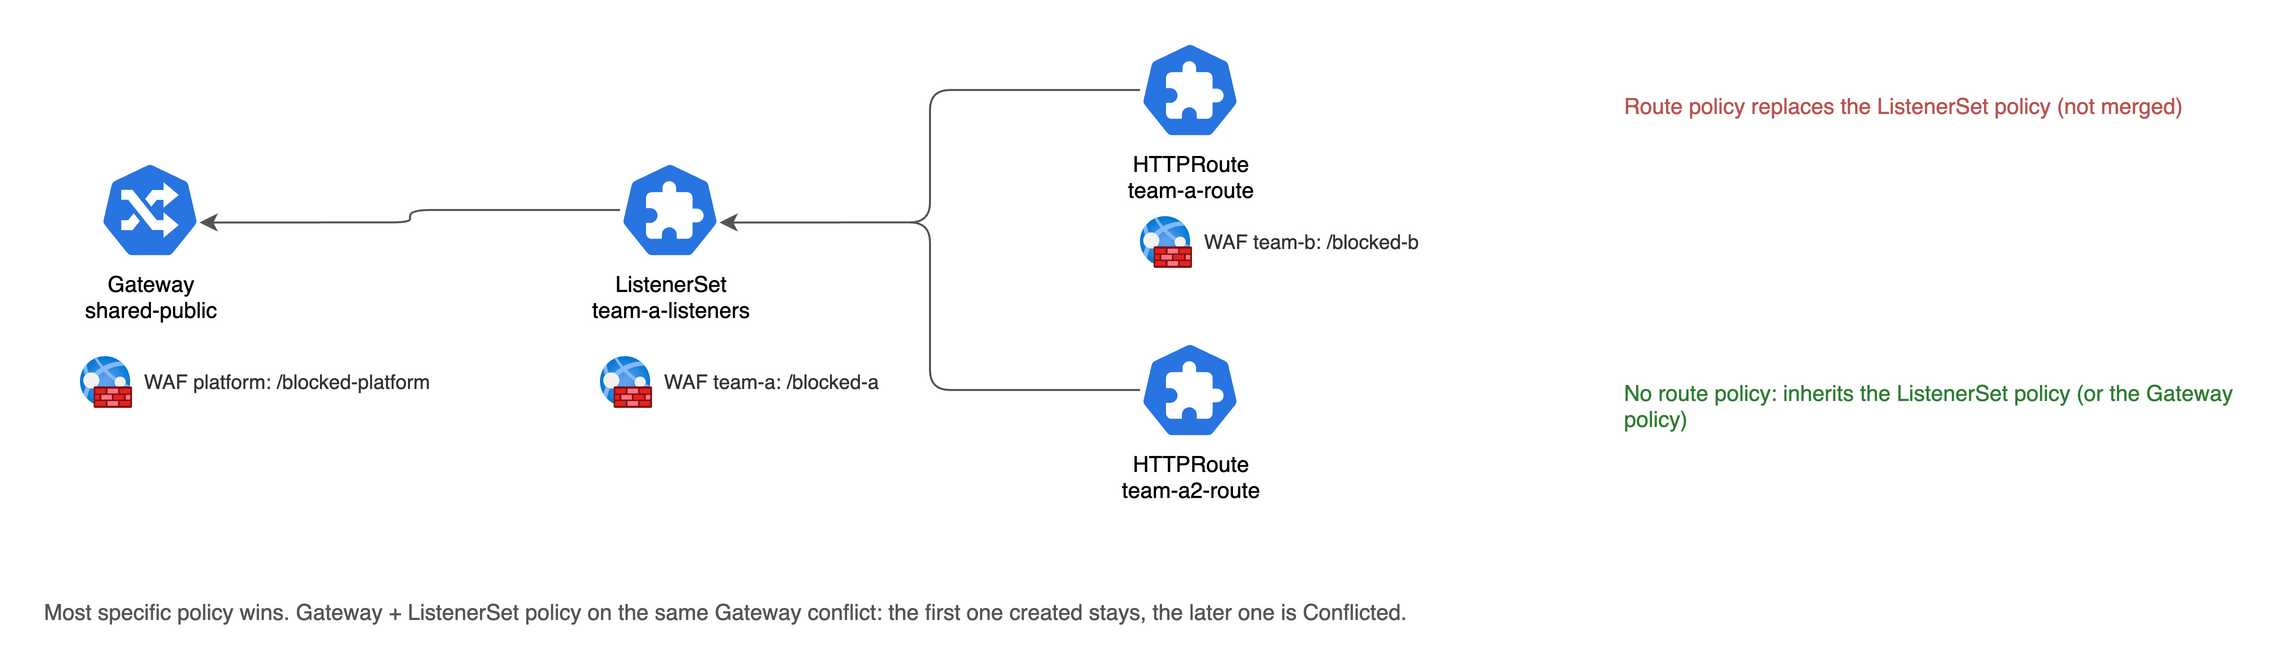
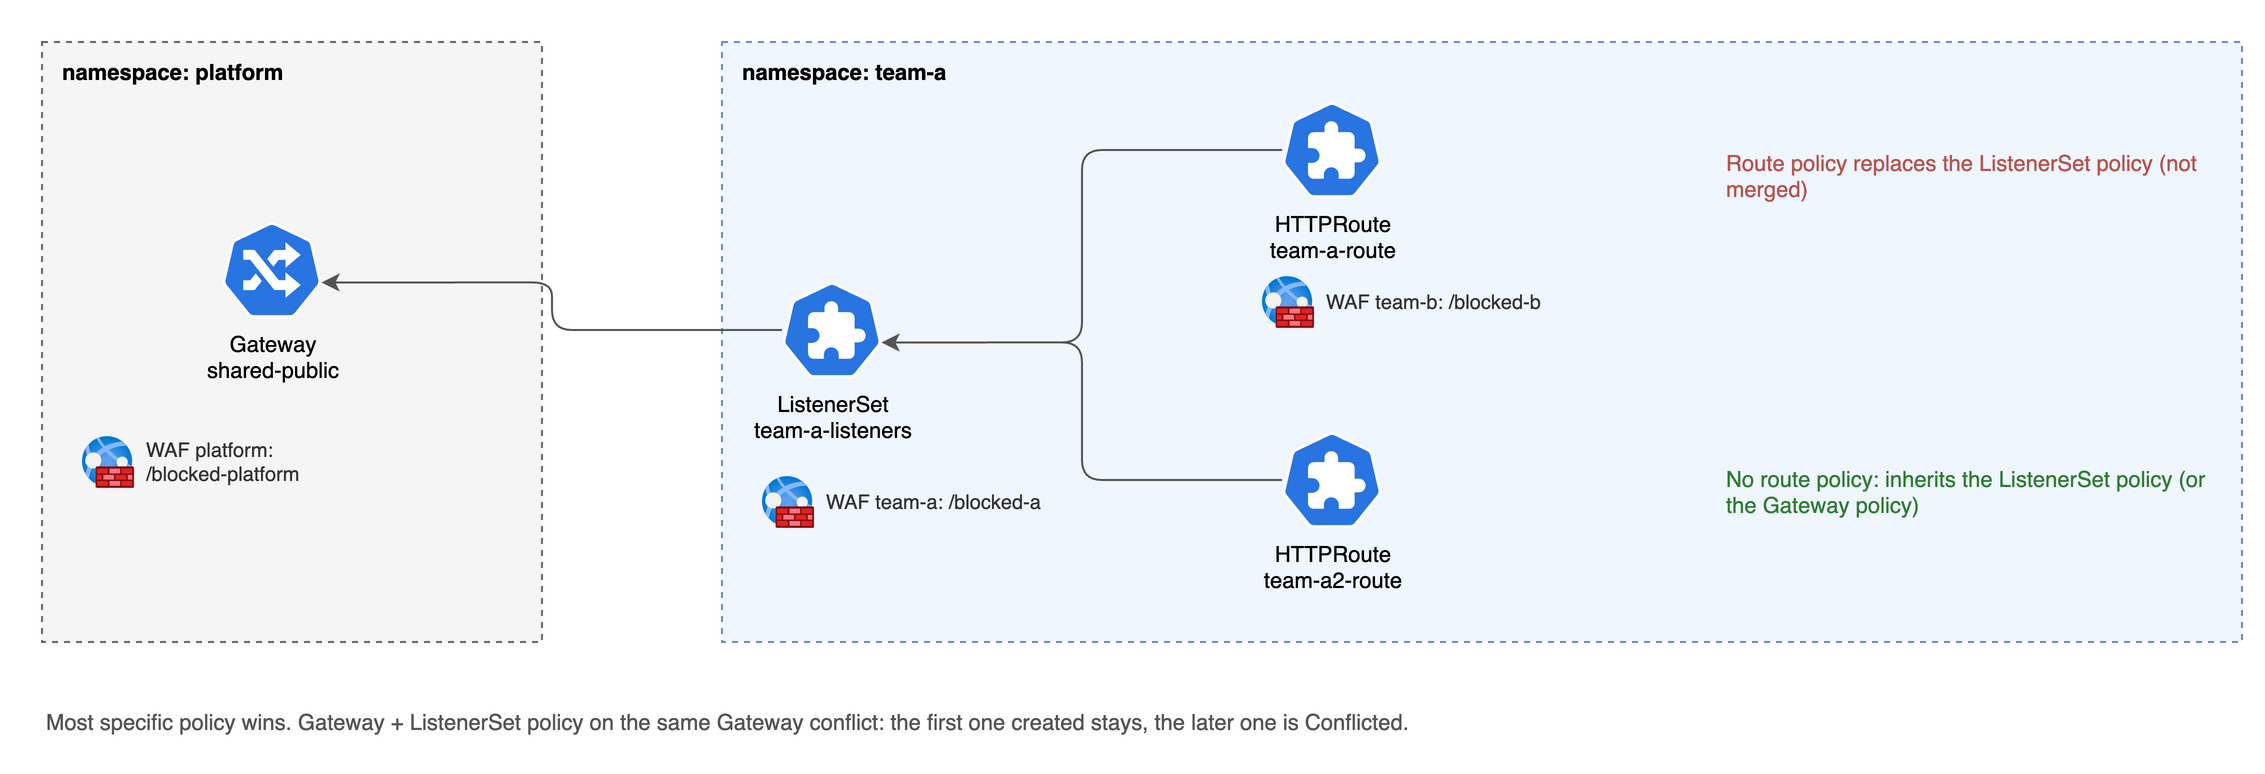
fix(posts): shorten title, add managed ALB WAF result and update WAF diagram

diff --git a/content/posts/agc-listenerset-multi-team.md b/content/posts/agc-listenerset-multi-team.md
@@ -1,7 +1,7 @@
 ---
 date: 2026-11-09
 showTableOfContents: true
-title: "A multi-team shared gateway on AKS with Application Gateway for Containers and Gateway API ListenerSet"
+title: "Multi-team shared gateways on AKS with AGC and ListenerSet"
 description: "Hands-on with Gateway API ListenerSet on Application Gateway for Containers: a platform team owns the Gateway, application teams attach their own listeners and routes, plus conflict isolation, namespace authorization and a WAF policy per team. OpenTofu code included."
 tags: ["Azure", "AKS", "Azure Kubernetes Service", "Application Gateway for Containers", "AGC", "Gateway API", "ListenerSet", "Platform Engineering", "WAF", "OpenTofu", "Terraform"]
 type: "post"
@@ -9,15 +9,15 @@ type: "post"
 
 ![architecture](/media/agc-listenerset/architecture.png)
 
-A shared gateway usually ends in one of two bad places. Either the platform team owns every hostname and becomes a ticket queue, or every team gets edit rights on the one Gateway object and one typo takes down everybody.
+A shared gateway usually ends in one of two bad places. Either the platform team owns every hostname and becomes a ticket queue or every team gets edit rights on the one Gateway object and one typo takes down everybody.
 
 Gateway API **ListenerSet** splits that responsibility: the platform team owns the `Gateway` and decides *which namespaces* may attach to it. Each application team creates its own `ListenerSet` (hostnames, ports, TLS) and `HTTPRoute` in its own namespace, without touching the Gateway.
 
-Application Gateway for Containers (AGC) supports this, and Microsoft documents it as [multi-team shared gateway](https://learn.microsoft.com/en-us/azure/application-gateway/for-containers/multi-team-shared-gateway) with a [how-to](https://learn.microsoft.com/en-us/azure/application-gateway/for-containers/how-to-multi-team-listeners-gateway-api). I followed that flow and extended it with a private frontend, a namespace that is denied, and a WAF policy per team. This post covers what worked, what didn't at first and what the portal does and does not show.
+Application Gateway for Containers (AGC) supports this and Microsoft documents it as [multi-team shared gateway](https://learn.microsoft.com/en-us/azure/application-gateway/for-containers/multi-team-shared-gateway) with a [how-to](https://learn.microsoft.com/en-us/azure/application-gateway/for-containers/how-to-multi-team-listeners-gateway-api). I followed that flow and extended it with a private frontend, a namespace that is denied and a WAF policy per team. This post covers what worked, what didn't at first and what the portal does and does not show.
 
 All results are from my lab run on 2026-11-09. Check the docs for the current status of the feature before you rely on it.
 
-All code is in a repo you can reproduce: **[demo-agc-listenerset](https://github.com/jonas-budde/demo-agc-listenerset)**.
+The demo code is here: **[demo-agc-listenerset](https://github.com/jonas-budde/demo-agc-listenerset)**.
 
 ## The model
 
@@ -206,7 +206,7 @@ spec:
     id: <WAF policy resource id>
 ```
 
-Each team has its own Azure WAF policy (DRS 2.1 plus one custom rule). Team A blocks `/blocked-a`, Team B blocks `/blocked-b`, and neither policy affects the other:
+Each team has its own Azure WAF policy (DRS 2.1 plus one custom rule). Team A blocks `/blocked-a`, Team B blocks `/blocked-b` and neither policy affects the other:
 
 ```
 $ curl -s -o /dev/null -w "%{http_code}\n" -H "Host: team-a.example.com" http://<public-frontend>/blocked-a
@@ -230,7 +230,7 @@ team-a      waf-team-a   False        19m
 team-b      waf-team-b   False        19m
 ```
 
-The condition said `NoDeployment: missing security policy for WAFPolicy "team-a/waf-team-a"` and the ALB Controller log repeated `security policy for WAFPolicy ... not found`. With a bring-your-own AGC, every WAF policy the CRD references needs a `securityPolicies` child resource on the AGC. Creating the Azure WAF policy alone is not enough. In OpenTofu with AzAPI, one per team:
+The condition said `NoDeployment: missing security policy for WAFPolicy "team-a/waf-team-a"` and the ALB Controller log repeated `security policy for WAFPolicy ... not found`. With a bring-your-own AGC, every WAF policy the CRD references needs a `securityPolicies` child resource on the AGC. Creating the Azure WAF policy alone is not enough. Microsoft describes the `SecurityPolicy` as the resource that scopes which WAF policies the ALB Controller may reference. So it works like an allow list on the ARM side: the controller only attaches WAF policies that are registered on the AGC. In OpenTofu with AzAPI that is one resource per WAF policy, so one per team here:
 
 ```terraform
 resource "azapi_resource" "sp_waf" {
@@ -248,6 +248,8 @@ resource "azapi_resource" "sp_waf" {
 
 After that, both policies went to `Deployment=True` and the table above is the result.
 
+With an ALB-managed AGC (the `ApplicationLoadBalancer` resource with the AKS add-on) the Microsoft [WAF how-to](https://learn.microsoft.com/en-us/azure/application-gateway/for-containers/how-to-waf-gateway-api) has no `securityPolicies` step. I tested that path too: the controller creates one `securityPolicies` child per WAF policy itself. What it needs is permission. The first attempt failed with `LinkedAuthorizationFailed` because the add-on identity lacked the `join/action` on the WAF policy. After granting it `Network Contributor` on the policy, the CRD went to `Deployed` and `/blocked` returned 403. A BYO AGC like this one still needs the `securityPolicies` resource from your own code.
+
 ## What the portal shows
 
 The AKS portal lists the Gateways and HTTP routes:
@@ -258,7 +260,7 @@ On the detail page of `shared-public`, the Listeners tab only shows the platform
 
 ![portal-gateway-overview](/media/agc-listenerset/portal-aks-gateway-shared-public-overview-platform-listener-only.png)
 
-The listeners that the teams attach through ListenerSets don't show up there. To see who is attached, use `kubectl get listenerset -A` and the Gateway's `status.attachedListenerSets`, or look at the routes. Keep that in mind if your platform team uses the portal for day-to-day checks.
+The listeners that the teams attach through ListenerSets don't show up there (yet). To see who is attached, use `kubectl get listenerset -A` and the Gateway's `status.attachedListenerSets` or look at the routes. Keep that in mind if your platform team uses the portal for day-to-day checks.
 
 ## HTTPS per team, certificates stay in the team namespace
 
@@ -279,7 +281,7 @@ listeners:
           name: tls-a        # Secret in namespace team-a
 ```
 
-With self-signed certificates for `tls-a` and `tls-b`, both ListenerSets were `Accepted`/`Programmed`, `attachedListenerSets` went to 4, and the frontend picked the certificate by SNI:
+With self-signed certificates for `tls-a` and `tls-b`, both ListenerSets were `Accepted`/`Programmed`, `attachedListenerSets` went to 4 and the frontend picked the certificate by SNI:
 
 ```
 $ openssl s_client -connect <ip>:443 -servername tls-a.example.com | grep subject=
@@ -329,7 +331,7 @@ team-a.example.com/blocked-a        -> 403
 team-b.example.com/blocked-platform -> 403   # still inherited
 ```
 
-So an application team can replace the platform baseline for its own route. If the platform team wants a baseline that cannot be overridden, don't rely on this. Restrict who can create `WebApplicationFirewallPolicy` objects with RBAC or admission policies, or copy the baseline rules into every team policy.
+So an application team can replace the platform baseline for its own route. If the platform team wants a baseline that cannot be overridden, don't rely on this. Restrict who can create `WebApplicationFirewallPolicy` objects with RBAC or admission policies or copy the baseline rules into every team policy.
 
 **6. Gateway and ListenerSet policy conflict.** I created the Gateway policy first, then one on the ListenerSet:
 
@@ -341,7 +343,7 @@ team-a.example.com/blocked-platform -> 403
 team-a.example.com/blocked-a        -> 200
 ```
 
-The policy created first stays in effect, and the later one is rejected. In my first attempt, with the ListenerSet policy created first, the Gateway policy was the one marked `Conflicted`. Order matters, and the status is the only place you will see it.
+The policy created first stays in effect and the later one is rejected. In my first attempt, with the ListenerSet policy created first, the Gateway policy was the one marked `Conflicted`. Order matters and the status is the only place you will see it.
 
 All of this is lab behavior of ALB Controller 1.13.0, not documented behavior. The experiment manifests are `manifests/60` to `64` in the repo.
 
@@ -350,7 +352,7 @@ All of this is lab behavior of ALB Controller 1.13.0, not documented behavior. T
 - ListenerSet gives each team its own listeners and routes without edit rights on the shared Gateway. The platform team stays in control of who may attach through `allowedListeners` and a namespace label.
 - A labeled namespace is only the Gateway's authorization. Combine it with RBAC.
 - A hostname conflict is contained in the offending ListenerSet. The other team and the Gateway keep working.
-- WAF policies work per HTTPRoute, and in my lab also on the ListenerSet and the Gateway. The most specific policy wins (route over ListenerSet or Gateway), and teams can therefore replace a platform baseline. Gateway plus ListenerSet policy conflict. With a bring-your-own AGC, add a `securityPolicies` resource per WAF policy or the CRD stays unprogrammed.
+- WAF policies work per HTTPRoute and in my lab also on the ListenerSet and the Gateway. The most specific policy wins (route over ListenerSet or Gateway) and teams can therefore replace a platform baseline. Gateway plus ListenerSet policy conflict. With a bring-your-own AGC, add a `securityPolicies` resource per WAF policy or the CRD stays unprogrammed.
 - The portal's Gateway view doesn't list ListenerSet listeners. Use `kubectl` for that.
 - This model needs Gateway API. Per the docs there is no equivalent ListenerSet-based delegation through the Ingress API.
 
